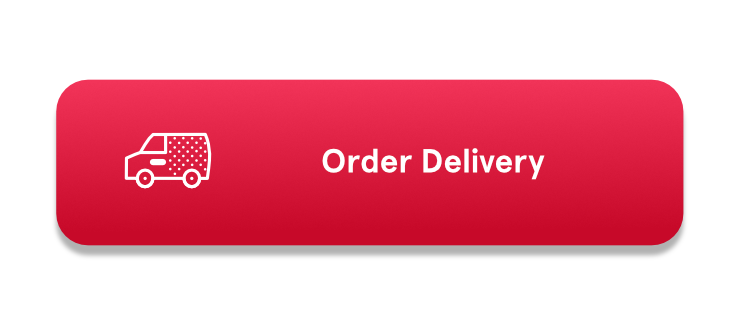
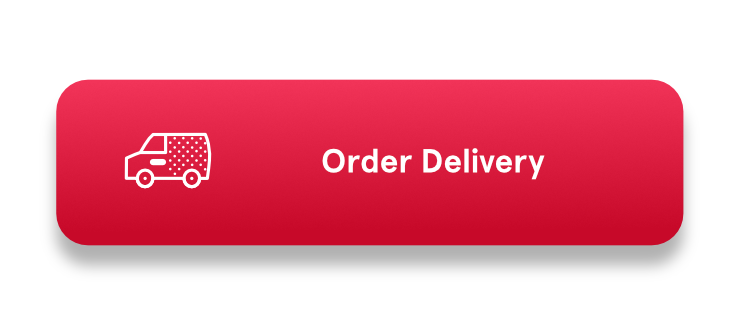
replace img, change text

Changed region(s): [[0.0613, 0.7385, 0.9188, 0.8308]]

diff --git a/idm241/alpha/index.html b/idm241/alpha/index.html
@@ -27,8 +27,8 @@
                     <h6> Rules</h6>
                     <ul>
                         <li>Cursor to pointer on hover</li>
-                        <li>Van icon moves left on x-axis by 20px</li>
-                        <li>Y-offset shadow 10px on button hover</li>
+                        <li>Van icon moves left on x-axis by 50px</li>
+                        <li>Y-offset shadow 20px on button hover</li>
                     </ul>
                 </div>
                 <div>
